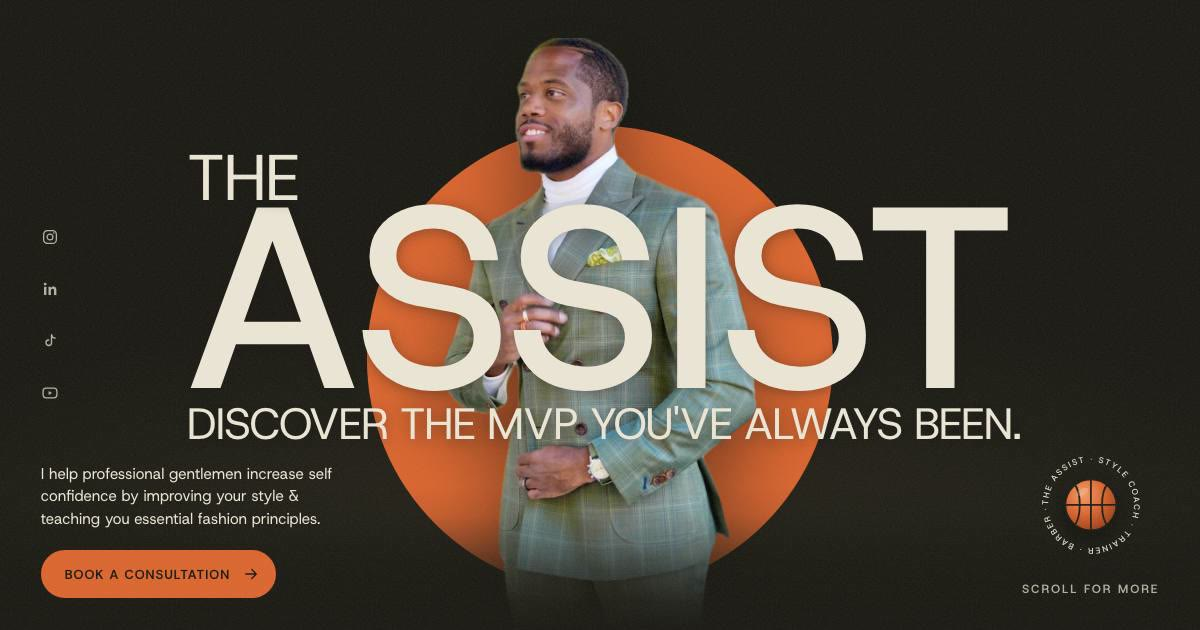
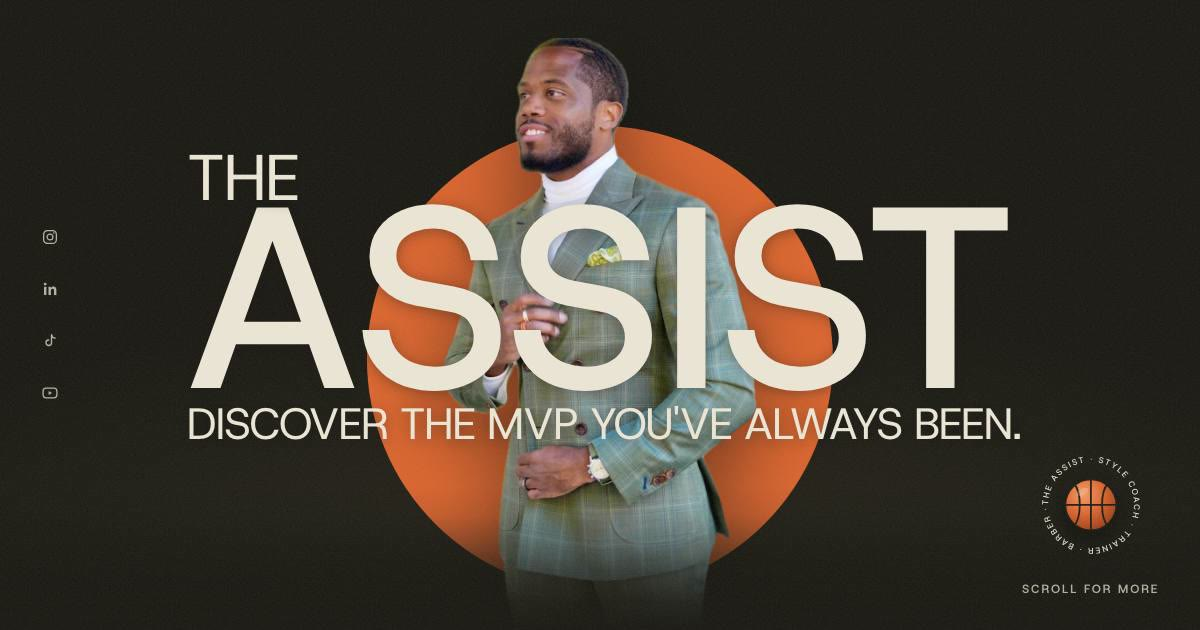
Hero: intro sentence moves to Meet Marcus, bottom-left button removed
"I help professional gentlemen increase self confidence..." now opens
the Meet Marcus Ervin paragraph, and the hero's bottom-left booking
button is gone (booking stays in the header on desktop and tablet).
On stacked heroes the glow moves into the stage so its fade lands on
plain night, and the tablet badge sits on the right of its row.

Changed region(s): [[0.0308, 0.7238, 0.2775, 0.8444], [0.0308, 0.8746, 0.2467, 0.9651]]

diff --git a/assets/css/site.css b/assets/css/site.css
@@ -79,8 +79,6 @@ body::after{content:"";position:fixed;inset:-50%;pointer-events:none;z-index:150
 .t-c{left:.02em;top:102%;font-size:.17em;font-weight:400;letter-spacing:-.03em}
 .hero__stage::after{content:"";position:absolute;left:0;right:0;bottom:0;height:var(--fade);z-index:4;pointer-events:none;background:var(--to-night)}
 .hero__marcus{position:absolute;left:50%;bottom:0;height:min(94%,1000px);width:auto;max-width:none;transform:translateX(-50%);z-index:3;filter:drop-shadow(0 30px 40px rgba(0,0,0,.45))}
-.hero__lede{position:absolute;left:var(--pad);bottom:clamp(32px,5svh,56px);z-index:5;max-width:min(30ch,26vw);display:flex;flex-direction:column;align-items:flex-start;gap:20px}
-.hero__lede p{margin:0;font-size:clamp(15px,1.15vw,18px);line-height:1.5;color:var(--bone)}
 .hero__social{position:absolute;left:var(--pad);top:50%;transform:translateY(-50%);z-index:5;display:flex;flex-direction:column;gap:8px;list-style:none;margin:0 0 0 -13px;padding:0}
 .hero__social a,.soc a{display:grid;place-items:center;width:44px;height:44px;border-radius:50%;color:var(--bone-dim);transition:color .2s,background .2s}
 .hero__social a:hover,.soc a:hover{color:var(--night);background:var(--orange)}
@@ -261,16 +259,17 @@ footer{background:var(--from-night) top/100% var(--fade) no-repeat,var(--band);p
   .lb__right{background:var(--from-night) top/100% var(--fade) no-repeat,var(--to-night) bottom/100% var(--fade) no-repeat,var(--band)}
   .lb__left{padding-bottom:clamp(48px,6vw,96px)}
   .lb__strip{position:static;align-self:stretch;margin-top:24px}
-  .hero__lede{max-width:34ch}
+  /* stacked heroes: the glow lives in the stage so its fade lands on plain night, with no seam above the button row */
+  .hero{background:var(--night)}
+  .hero__stage{background:radial-gradient(120% 90% at 50% 100%,#262318 0%,var(--night) 60%)}
   .menu{grid-template-columns:1fr}
   .menu aside{display:none}
 }
 /* tablet: Marcus fills the width, so the intro and badge move out from over his suit to a row below him */
 @media (min-width:761px) and (max-width:1024px){
-  .hero{height:auto;min-height:0;max-height:none;display:flex;align-items:flex-end;justify-content:space-between;flex-wrap:wrap;gap:32px;padding-bottom:40px}
+  .hero{height:auto;min-height:0;max-height:none;display:flex;align-items:center;justify-content:space-between;flex-wrap:wrap;gap:32px;padding-bottom:40px}
   .hero__stage{position:relative;flex:0 0 100%;height:clamp(600px,calc(100svh - 220px),940px)}
-  .hero__lede{position:static;max-width:44ch;padding-left:var(--pad)}
-  .badge{position:static;padding:0 var(--pad) 0 0}
+  .badge{position:static;margin-left:auto;padding:0 var(--pad) 0 0}
 }
 @media (max-width:760px){
   .top .pill{display:none}
@@ -283,7 +282,6 @@ footer{background:var(--from-night) top/100% var(--fade) no-repeat,var(--band);p
   .t-c{left:50%;translate:-50% 0;font-size:.242em}
   .hero__marcus{height:86%}
   .hero__social{display:none}
-  .hero__lede{position:static;max-width:none;padding:24px var(--pad) 8px}
   .badge{position:static;flex-direction:row;padding:8px var(--pad) 32px;justify-content:flex-start}
   .badge__ring{width:96px}
   .panels{height:auto;flex-direction:column;gap:2px}

diff --git a/index.html b/index.html
@@ -94,10 +94,6 @@
         <li><a href="https://www.youtube.com/@TheMarcusErvin" rel="noopener" target="_blank" aria-label="YouTube"><svg aria-hidden="true"><use href="#i-yt"/></svg></a></li>
       </ul>
     </div>
-    <div class="hero__lede">
-      <p>I help professional gentlemen increase self confidence by improving your style &amp; teaching you essential fashion principles.</p>
-      <a class="pill" href="#consultation">Book a consultation<svg aria-hidden="true"><use href="#i-arrow"/></svg></a>
-    </div>
     <a class="badge" href="#meet" aria-label="Scroll to meet Marcus">
       <span class="badge__ring" aria-hidden="true">
         <svg class="ring" viewBox="0 0 120 120"><defs><path id="ring" d="M60 60m-46 0a46 46 0 1 1 92 0a46 46 0 1 1-92 0"/></defs><text><textPath href="#ring" textLength="286" lengthAdjust="spacing">The Assist · Style coach · Trainer · Barber ·</textPath></text></svg>
@@ -111,7 +107,7 @@
     <div class="wrap meet">
       <div class="meet__copy">
         <h2 class="h2" id="meet-title">Meet<br>Marcus Ervin</h2>
-        <p class="lead">Think of me as your style coach, trainer, and barber — all in one. Every quarter of The Assist is designed to unlock a different level of your confidence.</p>
+        <p class="lead">I help professional gentlemen increase self confidence by improving your style &amp; teaching you essential fashion principles. Think of me as your style coach, trainer, and barber — all in one. Every quarter of The Assist is designed to unlock a different level of your confidence.</p>
         <div class="meet__role" aria-live="polite">
           <strong data-role="name">The coach</strong>
           <p data-role="text">I have read many books and taken hours upon hours of instructional classes to build up a wealth of knowledge to assist you. My aim is to pass you the ball and facilitate your success.</p>
